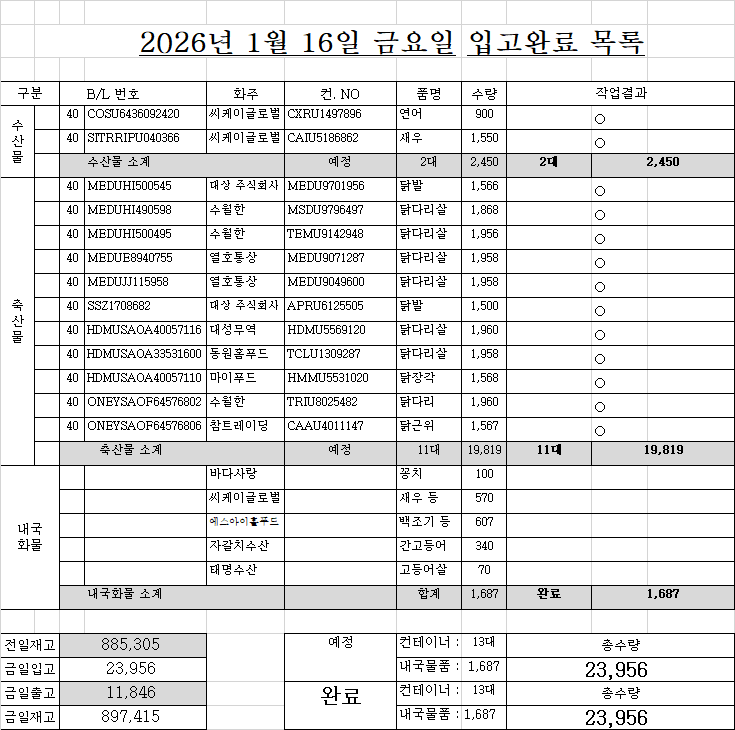
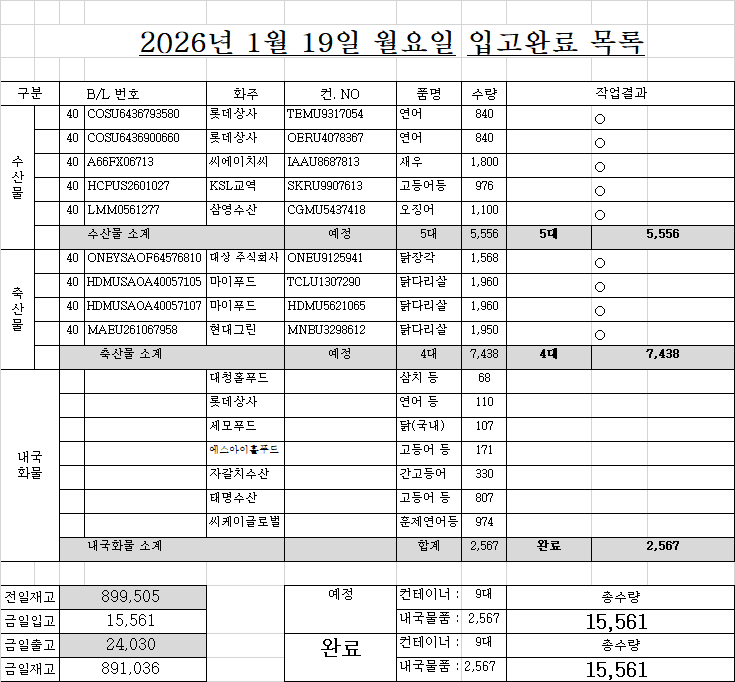
dsfdsf

diff --git a/list.html b/list.html
@@ -133,51 +133,48 @@
 </div>
 <!-- ★★★★★★ 따로 빼 놔야한다. 복붙하면 첫칸 비어도 되는데, 여기서는 첫칸비우면 당겨진다. -->
 <!-- ★ 엑셀범위를 브라우저 textarea에 붙여넣으면 첫셀 비어도 제대로 되는데... HTML에 붙여놓은 자료는 처음셀이 비어있으면 당겨짐 -->
-<div class="d-none" id="원본text_리스트1부터w요약열까지">작성	면허	B/LNO.	화주	컨테이너NO.	품명	수량	반입NO.	입항일	구분	도착일	도착시간	구분	운.도VBA	01/16 금 16:50	화찰BL	화찰 선명	화물관리번호	화찰수량	화찰중량	화찰입항	리스트시트기준열	
-1		LMM0561277	삼영수산	CGMU5437418	오징어	1,100 	BNCT	1/14	1				BNCT			CMA CGM INTEGRITY					01/16 금 16:50	
-1	○	COSU6436793580	롯데상사	TEMU9317054	연어	840 		1/16	1					(주)에스에스물류, CY : 동원글로벌터미널부산(주), 컨진행 : 입항적재화물목록 운항정보 정정, 선사 : 코스코쉬핑한국(주)	COSU6436793580	QI YUN HE	26COHEY520I-9082-	840 	24,285.80 	2026.01.15	조회정보	
-1	○	COSU6436900660	롯데상사	OERU4078367	연어	840 	면허	1/16	1					(주)에스에스물류, CY : 동원글로벌터미널부산(주), 컨진행 : 반입완료, 선사 : 코스코쉬핑한국(주)	COSU6436900660	QI YUN HE	26COHEY520I-9114-	840 	23,756.70 	2026.01.15	적재	57 
-1	○	A66FX06713	씨에이치씨	IAAU8687813	새우	1,800 		1/16	1					천일정기화물자동차(주), CY : 신선대감만터미널(주) 감만CY, 컨진행 : 하선신고 수리완료, 선사 : 덕상티에스라인스(주), 포딩 : 주식회사 엔제이글로벌	A66FX06713	TS HOCHIMINH	26TSLUB005I-9046-0001	1,800 	21,000.00 	2026.01.16	4,617 	3줄
-1	○	HCPUS2601027	KSL교역	SKRU9907613	고등어등	976 		1/18	1					(주)천경, CY : 신선대감만터미널(주) 신선대CY, 컨진행 : 보세운송 신고 수리, 선사 : 고려해운(주), 포딩 : (주)유에프씨로지스틱스	HCPUS2601027	KMTC PUSAN	26KMTC0107I-2044-0001	976 	10,248.00 	2026.01.18	6,156 	4줄
-1	○	ONEYSAOF64576810	대상 주식회사	ONEU9125941	닭장각	1,568 	DGT	1/15	2				DGT	(주)골든로지텍, CY : 동원글로벌터미널부산(주), 컨진행 : 반입완료, 선사 : 오션네트워크익스프레스코리아(주)	ONEYSAOF64576810	DELPHINUS C	26ONEY0067I-5112-	1,568 	24,304.00 	2026.01.15	7,695 	5줄
-1	○	HDMUSAOA40057105	마이푸드	TCLU1307290	닭다리살	1,960 	DGT	1/15	2				DGT	(주)이지트랜스, CY : 동원글로벌터미널부산(주), 컨진행 : 보세운송 신고 수리, 선사 : 오션네트워크익스프레스코리아(주)	HDMUSAOA40057105	DELPHINUS C	26ONEY0067I-7022-	1,960 	24,500.00 	2026.01.15	9,234 	6줄
-1	○	HDMUSAOA40057107	마이푸드	HDMU5621065	닭다리살	1,960 	DGT	1/15	2				DGT	(주)이지트랜스, CY : 동원글로벌터미널부산(주), 컨진행 : 보세운송 신고 수리, 선사 : 오션네트워크익스프레스코리아(주)	HDMUSAOA40057107	DELPHINUS C	26ONEY0067I-7023-	1,960 	24,500.00 	2026.01.15		
-1	○	MAEU261067958	현대그린	MNBU3298612	닭다리살	1,950 		1/17	2						MAEU261067958	GRASMERE MAERSK	26MAEU0030I-1036-	1,950 	24,219.00 	2026.01.17	출고/입고 4주간	
-2	○	WCVNS2601007	천부수산	SEGU9600242	절단주꾸미	2,200 		1/18	1			20 		(주)골든로지텍, CY : 신선대감만터미널(주) 신선대CY, 컨진행 : 보세운송 신고 수리, 선사 : 고려해운(주), 포딩 : 주식회사　원스탑에어앤씨	WCVNS2601007	KMTC PUSAN	26KMTC0107I-0023-0001	2,200 	14,200.00 	2026.01.18	1일 7/5	5일줄
-3		EGLV360500167935	수월한	EGSU5052662	닭다리살	1,960 	DGT	1/6	2				DGT	면허?, CY : 동원글로벌터미널부산(주), 컨진행 : 반입완료, 선사 : (주)에버그린코리아	EGLV360500167935	EVER VAST	26EVER6781I-0487-	1,960 	24,500.00 	2026.01.06	15,105 	49.1
-3		EGLV360500171274	수월한	TLLU1190832	닭다리살	1,917 	DGT	1/6	2				DGT	면허?, CY : 동원글로벌터미널부산(주), 컨진행 : 반입완료, 선사 : (주)에버그린코리아	EGLV360500171274	EVER VAST	26EVER6781I-0493-	1,917 	23,962.50 	2026.01.06	15,505 	50.4
+<div class="d-none" id="원본text_리스트1부터w요약열까지">작성	면허	B/LNO.	화주	컨테이너NO.	품명	수량	반입NO.	입항일	구분	도착일	도착시간	구분	운.도VBA	01/19 월 16:49	화찰BL	화찰 선명	화물관리번호	화찰수량	화찰중량	화찰입항	리스트시트기준열	
+1	○	SOFRNWB2602597	우원홀딩스	TEMU9177517	타코야끼	1,950 		1/17	1						SOFRNWB2602597	RUI NENG 8	26SFKLR602I-0145-0001	1,950 	22,000.00 	2026.01.18	01/19 월 16:49	
+1	○	HDMUSGNA25785700	우원홀딩스	TEXU9032271	새우	752 		1/18	1			20 		면허?, CY : 에이치엠엠피에스에이신항만(주), 컨진행 : 반입완료, 선사 : 에이치엠엠(주)	HDMUSGNA25785700	HAIAN OPUS	26HDMUA022I-0132-	752 	6,016.00 	2026.01.18	조회정보	
+1	○	WCVNS2601007	천부수산	SEGU9600242	절단주꾸미	2,200 		1/18	1			20 		(주)골든로지텍, CY : 신선대감만터미널(주) 신선대CY, 컨진행 : 반입완료, 선사 : 고려해운(주), 포딩 : 주식회사　원스탑에어앤씨	WCVNS2601007	KMTC PUSAN	26KMTC0107I-0023-0001	2,200 	14,200.00 	2026.01.18	적재	57 
+1	○	MEDUR6143743	씨케이글로벌	MSDU9818277	날치알 등	1,197 		1/19	1					면허?, CY : 부산신항만(주)자유무역지역, 컨진행 : 반입완료, 선사 : 엠에스씨코리아(주)	MEDUR6143743	MSC MIA	26MSCU4047I-0063-	1,197 	20,012.40 	2026.01.19	4,617 	3줄
+1	○	MEDUR6143834	씨케이글로벌	MSDU9818277	북방대합	545 		1/19	1					면허?, CY : 부산신항만(주)자유무역지역, 컨진행 : 반입완료, 선사 : 엠에스씨코리아(주)	MEDUR6143834	MSC MIA	26MSCU4047I-0064-	545 	2,268.10 	2026.01.19	6,156 	4줄
+1	○	ONEYSAOF64407803	수월한	ONEU9114593	닭고기	1,960 	면허	1/5	2						ONEYSAOF64407803	HYUNDAI INTEGRAL	26HDMUA050I-5113-	1,960 	24,500.00 	2026.01.05	7,695 	5줄
+1	○	ONEYSAOF64407804	수월한	TTNU8454292	닭고기	1,917 	면허	1/5	2						ONEYSAOF64407804	HYUNDAI INTEGRAL	26HDMUA050I-5114-	1,917 	23,962.50 	2026.01.05	9,234 	6줄
+2	○	EGLV360500167935	수월한	EGSU5052662	닭다리살	1,960 	DGT	1/6	2				DGT	면허?, CY : 동원글로벌터미널부산(주), 컨진행 : 반입완료, 선사 : (주)에버그린코리아	EGLV360500167935	EVER VAST	26EVER6781I-0487-	1,960 	24,500.00 	2026.01.06		
+2	○	EGLV360500171274	수월한	TLLU1190832	닭다리살	1,917 	DGT	1/6	2				DGT	면허?, CY : 동원글로벌터미널부산(주), 컨진행 : 반입완료, 선사 : (주)에버그린코리아	EGLV360500171274	EVER VAST	26EVER6781I-0493-	1,917 	23,962.50 	2026.01.06	출고/입고 4주간	
+2	○	NSSLADLC25L00374	우원홀딩스	CAIU5190604	가리비살	600 		1/19	1			20 		면허?, CY : 신선대감만터미널(주) 신선대CY, 컨진행 : 하선신고 수리완료, 선사 : 동영해운(주), 포딩 : 주식회사 글로벌해현	NSSLADLC25L00374	PEGASUS PETA	26PCSLA036I-3007-0001	600 	5,640.00 	2026.01.19	1일 7/5	5일줄
+3		HDMUSGNA25785701	우원홀딩스	TEXU9030052	새우	660 		1/18	1			20 		면허?, CY : 에이치엠엠피에스에이신항만(주), 컨진행 : 반입완료, 선사 : 에이치엠엠(주)	HDMUSGNA25785701	HAIAN OPUS	26HDMUA022I-0133-	660 	4,620.00 	2026.01.18	15,105 	49.1
+3		HDMUSGNA43806100	우원홀딩스	HMMU5202730	새우	901 		1/18	1			20 		면허?, CY : 에이치엠엠피에스에이신항만(주), 컨진행 : 반입완료, 선사 : 에이치엠엠(주)	HDMUSGNA43806100	HAIAN OPUS	26HDMUA022I-0135-	901 	6,489.80 	2026.01.18	15,505 	50.4
 		MEDUHI539196	동원홈푸드	CXRU1017512	닭다리살	1,958 		1/10	2												내국제외	
 		MEDUHI539204	동원홈푸드	SEGU9280010	닭다리살	1,958 		1/10	2												구분	대수
-		MEDUHI539261	동원홈푸드	CAIU5465430	닭다리살	1,946 		1/10	2												수산	16
-		SITRRIPU040355	씨케이글로벌	CAIU5186862	새우	1,550 		1/14	1			20 									축산	29
-		MEDUR6143743	씨케이글로벌	MSDU9818277	날치알 등	1,197 		1/18	1												합계	45
-		MEDUR6143834	씨케이글로벌	MSDU9818277	북방대합	545 		1/18	1													
-		HDMUSGNA25785700	우원홀딩스	TEXU9032271	새우	752 		1/18	1			20 									화주별 요약	
-		HDMUSGNA25785701	우원홀딩스	TEXU9030052	새우	660 		1/18	1			20 									화주	대수
-		HDMUSGNA43806100	우원홀딩스	HMMU5202730	새우	901 		1/18	1			20 									수월한	8
-		NSSLADLC25L00374	우원홀딩스	CAIU5190604	가리비살	600 		1/18	1			20 									뉴아시아	6
-		EGLV360500183141	수월한	EMCU5729862	닭다리	1,960 	DGT	1/19	2				DGT			EVER VERT(NSB)					동원홈푸드	5
-		HDMUSAOA48890205	대성무역	HMMU5498787	닭장각	1,568 	HPNT	1/21	2				HPNT			HYUNDAI BRAVE					우원홀딩스	4
-		MEDUHI543537	동원홈푸드	TTNU8148100	닭다리살	1,939 		1/21	2							MSC LISBON IX					삼영수산	3
-		HDMUSAOA89815800	수월한	HDMU5616789	닭다리	1,940 	HPNT	1/21	2				HPNT			HYUNDAI BRAVE					마이푸드	3
-		MEDUHI473370	수월한	OTPU6427515	닭다리살	1,958 	PNIT	1/21	2				PNIT			MSC JULIETTE					씨케이글로벌	3
-		HLCUPN4251060317	대상 주식회사	BMOU9803978	닭발	1,567 	PNC	1/23	2				PNC			NANSHA EXPRESS					롯데상사	2
-		SSZ1711920	참트레이딩	CGMU5803986	닭발	1,567 		1/23	2							CMA CGM ELBE					대상 주식회사	2
-		ONEYSAOF65584800	뉴아시아	SZLU9698718	닭다리살	1,960 		1/25	2												아스트로스	2
-		ONEYSAOF65584801	뉴아시아	OTPU6293479	닭다리살	1,960 		1/25	2												씨에이치씨	1
-		ONEYSAOF65584802	뉴아시아	ONEU9260812	닭다리살	1,960 		1/25	2												KSL교역	1
-		EGLV360500190350	뉴아시아	EMCU5456095	닭다리살	1,960 		1/28	2												현대그린	1
-		HDMUSAOA52485200	수월한	HMMU5474928	닭다리	1,866 		1/28	2												천부수산	1
-		LMM0562999	삼영수산	TTNU8038248	오징어	1,100 		1/29	1							CMA CGM VELA 					대성무역	1
-		LMM0563012	삼영수산	TTNU8274161	오징어	1,100 		1/29	1							CMA CGM VELA 					참트레이딩	1
-		SSZ1720111	아스트로스	CGMU5820725	닭발	1,500 		1/29	2							APL CHARLESTON					아이씨인터	1
-		MEDUHI536804	동원홈푸드	CRSU6143319	닭다리살	1,958 		1/31	2							MSC QUITTERIE					합계	45
+		MEDUHI539261	동원홈푸드	CAIU5465430	닭다리살	1,946 		1/10	2												수산	15
+		SITRRIPU040355	씨케이글로벌	CAIU5186862	새우	1,550 		1/14	1			20 									축산	28
+		EGLV360500183141	수월한	EMCU5729862	닭다리	1,960 	DGT	1/19	2				DGT			EVER VERT(NSB)					합계	43
+		HDMUSAOA48890205	대성무역	HMMU5498787	닭장각	1,568 	HPNT	1/21	2				HPNT			HYUNDAI BRAVE						
+		MEDUHI543537	동원홈푸드	TTNU8148100	닭다리살	1,939 		1/21	2							MSC LISBON IX					화주별 요약	
+		HDMUSAOA89815800	수월한	HDMU5616789	닭다리	1,940 	HPNT	1/21	2				HPNT			HYUNDAI BRAVE					화주	대수
+		MEDUHI473370	수월한	OTPU6427515	닭다리살	1,958 	PNIT	1/21	2				PNIT			MSC JULIETTE					수월한	11
+		SGN501861400	씨케이글로벌	PCIU6131651	새우	2,100 		1/21	1												뉴아시아	6
+		HLCUPN4251060317	대상 주식회사	BMOU9803978	닭발	1,567 	PNC	1/23	2				PNC			NANSHA EXPRESS					우원홀딩스	5
+		SSZ1711920	참트레이딩	CGMU5803986	닭발	1,567 		1/23	2							CMA CGM ELBE					씨케이글로벌	5
+		ONEYSAOF65584800	뉴아시아	SZLU9698718	닭다리살	1,960 		1/25	2												동원홈푸드	5
+		ONEYSAOF65584801	뉴아시아	OTPU6293479	닭다리살	1,960 		1/25	2												삼영수산	3
+		ONEYSAOF65584802	뉴아시아	ONEU9260812	닭다리살	1,960 		1/25	2												아스트로스	2
+		EGLV360500190350	뉴아시아	EMCU5456095	닭다리살	1,960 		1/28	2												천부수산	1
+		HDMUSAOA52485200	수월한	HMMU5474928	닭다리	1,866 		1/28	2												대성무역	1
+		ONEYRICFME885600	씨케이글로벌	ONEU9402291	북방대합	1,236 		1/28	1												대상 주식회사	1
+		LMM0562999	삼영수산	TTNU8038248	오징어	1,100 		1/29	1							CMA CGM VELA 					참트레이딩	1
+		LMM0563012	삼영수산	TTNU8274161	오징어	1,100 		1/29	1							CMA CGM VELA 					아이씨인터	1
+		SSZ1720111	아스트로스	CGMU5820725	닭발	1,500 		1/29	2							APL CHARLESTON					마이푸드	1
+		MEDUHI536804	동원홈푸드	CRSU6143319	닭다리살	1,958 		1/31	2							MSC QUITTERIE					합계	43
 		SAO500947700	뉴아시아	CAAU4073410	닭다리살	1,960 		2/5	2													
 		SAO500947701	뉴아시아	FBIU5236770	닭다리살	1,960 		2/5	2													
 		HLCUSCL251233590	아이씨인터	TCLU1180712	연어	860 		2/7	1							HUMBOLDT EXPRESS						
 		SSZ1724657	아스트로스	TEMU9449554	닭발	1,500 		2/8	2													
 		MEDUHI598226	수월한	TTNU8322275	닭다리	1,958 		2/15	2													
 		HDMUSAOA13363200	마이푸드	HMMU5484016	닭다리살	1,939 			2													
+		MEDUHI546837	수월한	MSGU9057116	닭다리살	1,958 			2													
 		MEDUHI539543	수월한	TTNU8312214	닭다리살	1,939 		미정	2							MSC LISBON IX						
 </div>
 <div class="d-none" id="원본text_입항관리도크부터도착항우측까지">도크	화주	컨테이너	작업순서	상세내용 참조		운송사	물품		06/05 목 16:15	B/L	도착항	상세내용

diff --git a/excel_코드점검.html b/excel_코드점검.html
@@ -576,6 +576,8 @@
         <h6 class="blueviolet fw-bold" title="개념_nodejs관련4">개념정리 4, npm install express 설치후 관련된 server.js 코드 익숙해지기</h6>
         <h6 class="fw-bold" title="개념_nodejs관련5">개념정리 메모, 나머지는 실제코드 중심</h6>
         <h6 class="blueviolet fw-bold">--------------------------------------------------------------------</h6>
+        <h6 class="fw-bold" title="개념_nodejs관련삽입1">Promise객체, asyne await는 Promise객체와 관련</h6>
+        <h6 class="fw-bold" title="개념_nodejs관련삽입2">response객체, Node.js 내부객체</h6>
         <h6 class="blueviolet fw-bold" title="개념_nodejs관련6">01. 한몸처럼 다루지만 정적서버와 api서버는 별개다. 브라우저 통신 개념 정리</h6>
         <h6 class="fw-bold" title="실습_nodejs관련01">02. 웹페이지 제공, 프로젝트 폴더내, 프로젝트 폴더 외부, 깃허브 페이지</h6>
         <h6 class="fw-bold" title="실습_nodejs관련011">03. 동기, 비동기, fetch, 체이닝문법과 async await 문법</h6>
@@ -9854,6 +9856,104 @@ form 데이터 파싱</pre>
       <div>
         dff
       </div>
+    <div id="개념_nodejs관련삽입1" class="대체3줄">
+      <h6 class="대체3줄세로1h6"></h6><h6 class="대체3줄세로2h6"></h6>
+      <div>
+        <h6 class="fw-bold">1. Promise객체 : 응답을 기다리는 객체, 주로 통신요청 객체</h6>
+        <pre class="fw-bold">
+    <span class="blueviolet">Promise객체는 미래에 도착할 결과가 담긴 상자
+    Promise라는 상자에 담겨 있는 객체 
+    내부에 문자열이 있는데 사용하려면 포장지를 벗기는 과정이 필요하다.</span>
+    const res = fetch(`http://localhost:3000/unipass?blno=${blno}&year=${year}`);</pre>
+        <h6 class="fw-bold">2. Promise객체 자체를 console.log로 확인한다면.</h6>
+        <pre class="fw-bold">
+    1. const 응답 = fetch("/data"); 
+        console.log(응답); => Promise&#60;Response>
+        <span class="blueviolet">"response가 담긴" Promise 객체</span>
+    <span class="blueviolet">2.</span> const 응답 = fetch("/data")<span class="blueviolet">.then</span>(res => res.text());
+        console.log(응답); => Promise&#60;String>
+        <span class="blueviolet">"res.text()는 response의 body내용을 문자열로 변환한것"을 담은 Promise 객체</span>
+    3. const 문자열 = fetch(url).then(res => res.text()).then(text => text);
+        console.log(응답); => Promise&#60;String>
+    4. const 응답 = fetch("/data").then(res => console.log(res.text()));
+        <span class="blueviolet">★내부에서는 res.text()를 문자열로 보여줄수 있다.★</span>
+        3.은 console 표시동작만 있고 return 값이 없다
+        console.log(응답); => Promise&#60;void> 아무것도 담긴것이 없는 상자라는 뜻
+        <span class="blueviolet">상자에 아무것도 담기지 않은 Promise객체이다.</span></pre>
+        <h6 class="fw-bold">3. Promise객체에는 .then 메소드가 있다</h6>
+        <pre class="fw-bold">
+    <span class="blueviolet">2의2에서처럼, Promise라는 포장를 벗겨서 내부를 보고, 내부에서는 사용할 수 있다.</span>
+    그렇지만 변수에 담긴 결과는 결국 Promise 객체이다.</pre>
+        <h6 class="fw-bold">3. .then : 앞의 결과를 받고난 후에 후속작업을 한다는 의미이다.</h6>
+        <h6 class="fw-bold">4. .then 구문 예시</h6>
+        <pre class="fw-bold">
+    <span class="blueviolet">const 문자열 = fetch(url)
+    .then(res => res.text())
+    .then(text => text);</span>
+  
+async function call() {
+  const 파싱문자열 = await fetch(url)
+    .then(res => res.text())
+    .then(text => text);
+
+  // 여기서 파싱문자열 === 실제 문자열
+}
+왜 문자열이 되나?
+fetch(...) → Promise<Response>
+
+.then(res => res.text()) → Promise<String>
+
+.then(text => text) → Promise<String>
+
+await → 그 Promise가 resolve될 때까지 대기
+
+resolve된 문자열 값을 파싱문자열에 대입
+
+참고로 더 간단히도 가능
+js
+코드 복사
+const res = await fetch(url);
+const 파싱문자열 = await res.text();
+의미는 완전히 동일합니다.
+  
+  
+  </pre>
+
+
+
+
+
+
+
+
+
+        <h6 class="fw-bold">4. async await 문법은 Promise객체 표현을 "더" 유연하게 해주는 문법이다.</h6>
+        <pre class="fw-bold">
+    1. async : 함수앞에 붙이고, 함수내에서 await 를 사용할수 있다. 
+       사용하지 않고 그냥 .then 사용도 가능.
+       <span class="blueviolet">async function call() { 
+       const res = await fetch(url);
+       }
+      app.get('/unipass', async (req, res) => {
+         .....
+         const response = await fetch(url);
+         const text = await response.text();
+         res.send(text);
+      });</span>
+    2. Promise 객체가 아닌것에도 붙일수 있지만 안붙인거와 같은 상황 
+    3. await 사용해야만 하는 표현이 있다. 
+    res.then(  </pre>
+      </div>
+    </div>
+    <div id="개념_nodejs관련삽입2" class="대체3줄">
+      <h6 class="대체3줄세로1h6"></h6><h6 class="대체3줄세로2h6"></h6>
+      <div>
+        <h6 class="fw-bold">response 객체</h6>
+        <pre class="fw-bold">
+
+
+
+        </pre>
 
     </div>
     <div id="개념_nodejs관련6">
@@ -11281,6 +11381,9 @@ app.use(express.json());
 요청 Body에 JSON이 있으면
 req.body 로 변환해서 다음 핸들러에 전달
         </pre>
+      </div>
+      <div>
+        <h6 class="fw-bold"><a href="https://www.inflearn.com/blogs/8023?gad_source=1&gad_campaignid=23467079245&gbraid=0AAAAADAClSDFj6VLDRXlS0fYHXF1XZtlI&gclid=Cj0KCQiAprLLBhCMARIsAEDhdPcSRsgLv6CpmbULyvGWIxpzP8UC3iZTm_hrSjqG6U0l-Kl-vzrVmMcaAgqIEALw_wcB" target="_blank">fetch와 axios 비교</a> </h6>
       </div>
     </div>
 

diff --git a/node_custom.html b/node_custom.html
@@ -34,7 +34,7 @@ BL번호:
 <div id="detail"></div>
 
 <script>
-async function call() {
+async function call() { 
     const blno = document.getElementById("blno").value;
     const year = document.getElementById("year").value;
     // 이곳이 localhost:3000 이면 http://localhost:3000 생략가능, 현재는 8080;

diff --git a/portal/assets/js/excel_코드점검.js b/portal/assets/js/excel_코드점검.js
@@ -1,6 +1,6 @@
 let 전체변수h6title='';
 function 특정id편집() {
-  전체변수h6title ='실습_03' //원래는 h6의 title이다.
+  전체변수h6title ='개념_nodejs관련삽입1' //원래는 h6의 title이다.
   전체대체에셑팅();
 }
 function 연습() {
